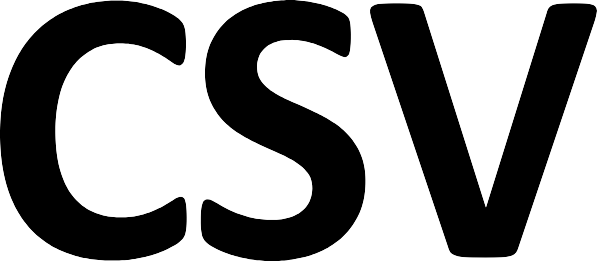
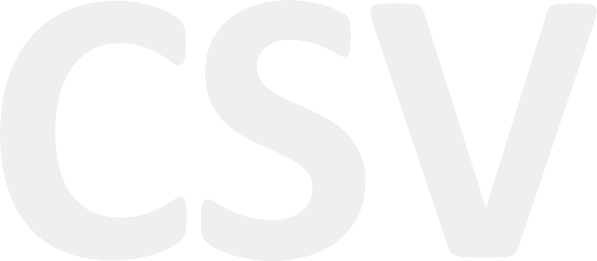
upgrade

diff --git a/docs/stylesheets/style _es.css b/docs/stylesheets/style _es.css
@@ -1,2 +1,12 @@
-/* Sfondo CSV*/
-.md-main { background-image:url(../imgs/csv.png)!important; background-repeat: no-repeat!important;  background-position: center center!important; background-size: 90%!important;  background-attachment: fixed !important;  -webkit-backface-visibility: hidden !important; /*background:  #efefef;*/}
+/* Sfondo logo CSV parte centrale*/
+.md-content{
+    background-image:  url(../imgs/csv.png)!important;
+	background-repeat: no-repeat;
+    background-position-x: center;
+    background-position-y: 99.2%!important;
+    background-size: 50%;
+	}
+
+ @media screen and (max-width: 1000px) {
+.md-content {background-size: 75%!important;
+}

diff --git a/docs/stylesheets/style.css b/docs/stylesheets/style.css
@@ -1,3 +1,5 @@
+@import url("style _es.css");
+
 /*
 link nel footer
 .md-footer-copyright__highlight a {
